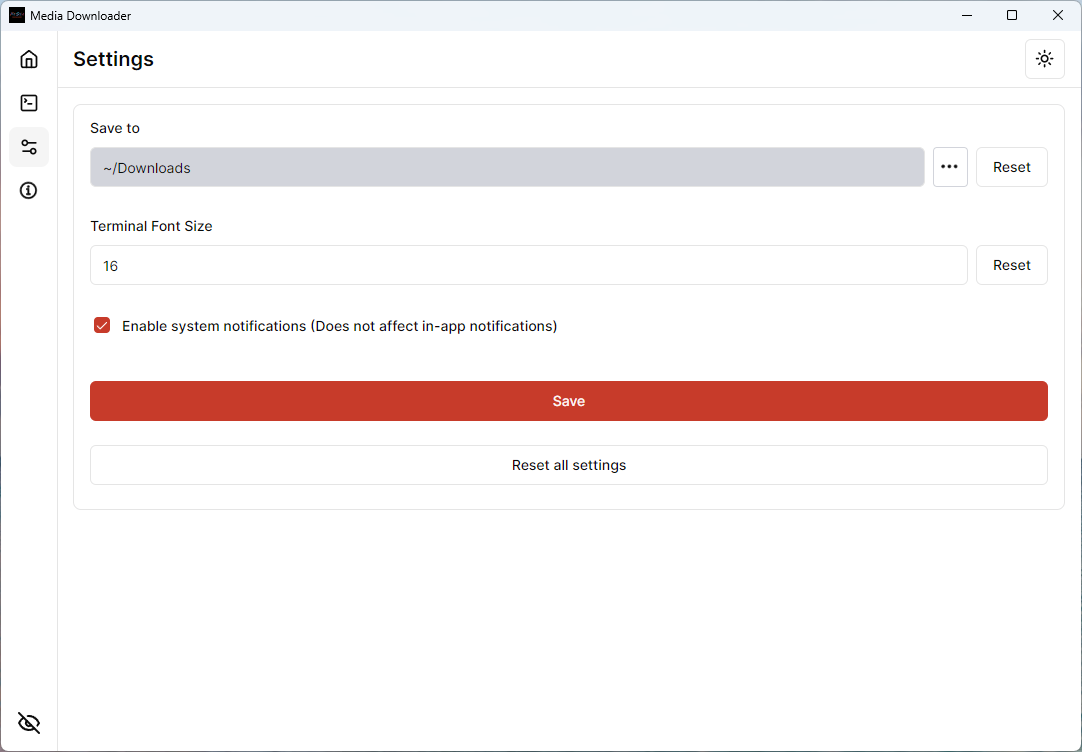
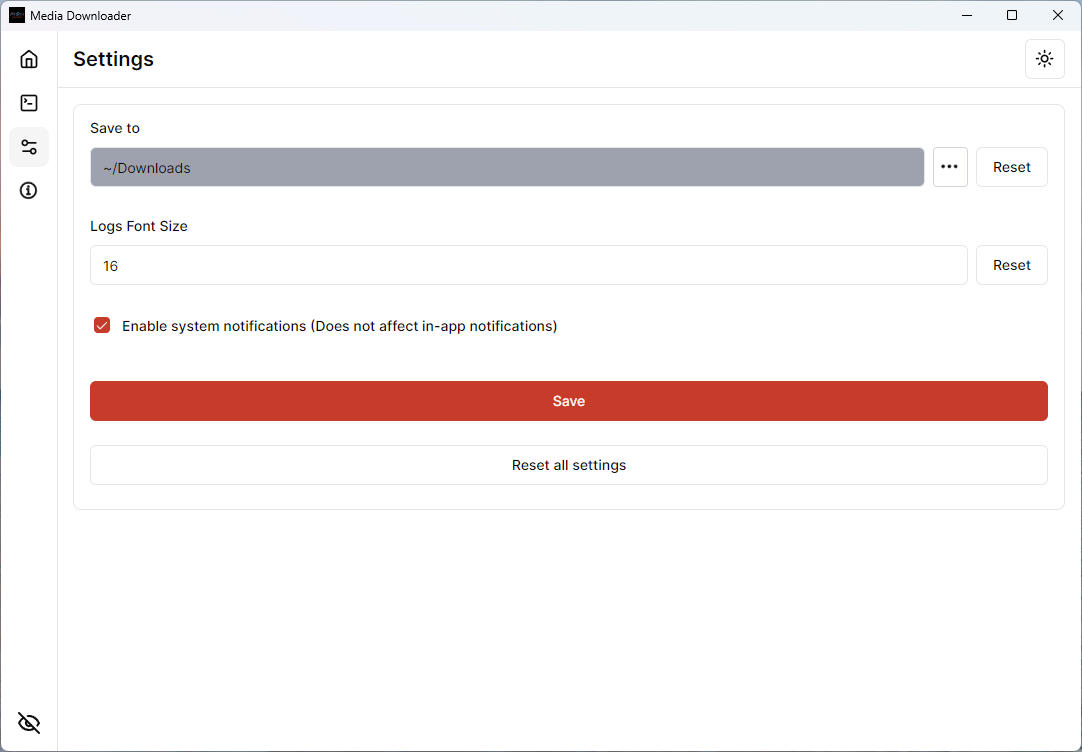
Update README
and some screenshots

Changed region(s): [[0.061, 0.1835, 0.854, 0.2447], [0.0915, 0.2753, 0.183, 0.3059]]

diff --git a/README.md b/README.md
@@ -9,14 +9,14 @@
 </h1>
 
 <h3 align="center">
-  <a href="https://github.com/yt-dlp/yt-dlp/">yt-dlp</a> GUI wrapper
+  GUI for <a href="https://github.com/yt-dlp/yt-dlp/">yt-dlp</a> (and compatible tools)
 </h3>
 
 ## Features
 - Cross platform
 - Modern UI
 - Dark mode
-- Console output
+- Console logs
 - Hide in system tray
 - *__And more to come...__*
 
@@ -31,19 +31,16 @@
 
 ## Instructions
 ### Install
-Head over to [Releases](https://github.com/gaeljacquin/media-downloader/releases).
+1. Head over to [Releases](https://github.com/gaeljacquin/media-downloader/releases)
+2. Add [yt-dlp](https://github.com/yt-dlp/yt-dlp/) to PATH
+3. Add [FFmpeg](https://ffmpeg.org/download.html) to PATH (optional)
 
 ### Build
-#### Prerequisites
-* [yt-dlp](https://github.com/yt-dlp/yt-dlp/)
-* [Webview2](https://developer.microsoft.com/en-us/microsoft-edge/webview2) (Windows only, if it's not already installed)
-* [FFmpeg](https://ffmpeg.org/download.html) (optional)
-
-#### Steps
-1. Clone the repository.
-2. Add the [yt-dlp binary](https://github.com/yt-dlp/yt-dlp/releases) to `src/tauri/binaries`.
-3. Rename `yt-dlp` to `yt-dlp-$TARGET`, replacing `$TARGET` with the corresponding platform e.g. `x86_64-pc-windows-msvc` for Windows.
-4. Run `pnpm tauri build --target $TARGET`.
+1. Clone the repository
+2. Add [yt-dlp](https://github.com/yt-dlp/yt-dlp/) to PATH
+3. Add [FFmpeg](https://ffmpeg.org/download.html) to PATH (optional)
+4. Install other [prerequisites](https://tauri.app/v1/guides/getting-started/prerequisites/)
+5. Run the build command
 
 ## Important Notes
 **Builds and installers were (so far) only tested on Windows 11.**
